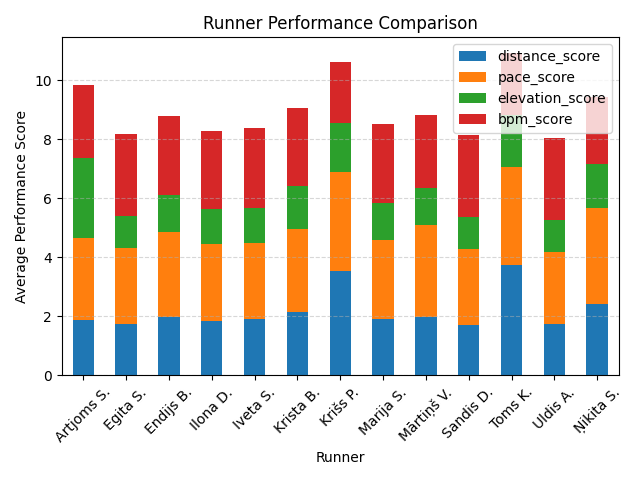
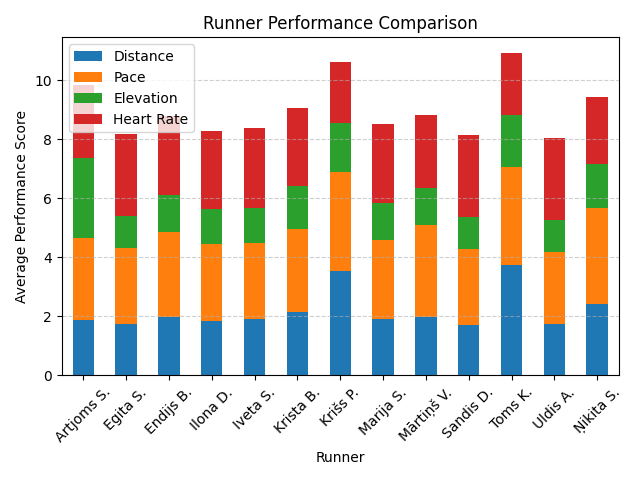
rename legend

Changed region(s): [[0.7188, 0.0938, 0.9688, 0.2812], [0.0938, 0.0938, 0.3125, 0.2812]]

diff --git a/runners_kpi_visualization/main.py b/runners_kpi_visualization/main.py
@@ -14,8 +14,8 @@ parts = df["time"].str.split(":")
 
 # convert the MM:SS time values into decimal minutes
 minutes_total = parts.str[0].astype(int) + (parts.str[1].astype(int) / 60)
-df["pace"] = minutes_total/ df["distance"].round(2)
-print(df[["time", "distance", "pace"]].head())
+df["pace"] = (minutes_total/ df["distance"]).round(2)
+# debug - print(df[["time", "distance", "pace"]].head())
 # endregion
 
 # region 4. TODO-DONE: Calculate session score components
@@ -49,17 +49,22 @@ avg_perf_score.plot(
 # endregion
 
 # region 8. TODO-DONE: Customize
+# set title and axis name
 ax.set_title("Runner Performance Comparison")
 ax.set_xlabel("Runner")
 ax.set_ylabel("Average Performance Score")
 
+# rename columns for cleaner legend
+ax.legend(["Distance", "Pace", "Elevation", "Heart Rate"])
+
 # "x" axe labels/numbers rotation
 ax.tick_params(axis="x", rotation=45)
-ax.grid(axis="y", linestyle="--", alpha=0.5)
+ax.grid(axis="y", linestyle="--", alpha=0.6)
 # adjust spacing, so it fits in figure
 plt.tight_layout()
 # endregion
 
 # region 9. TODO-DONE: Show result
+# debug - print(avg_perf_score)
 plt.savefig("runner_performance.png")
 # endregion
